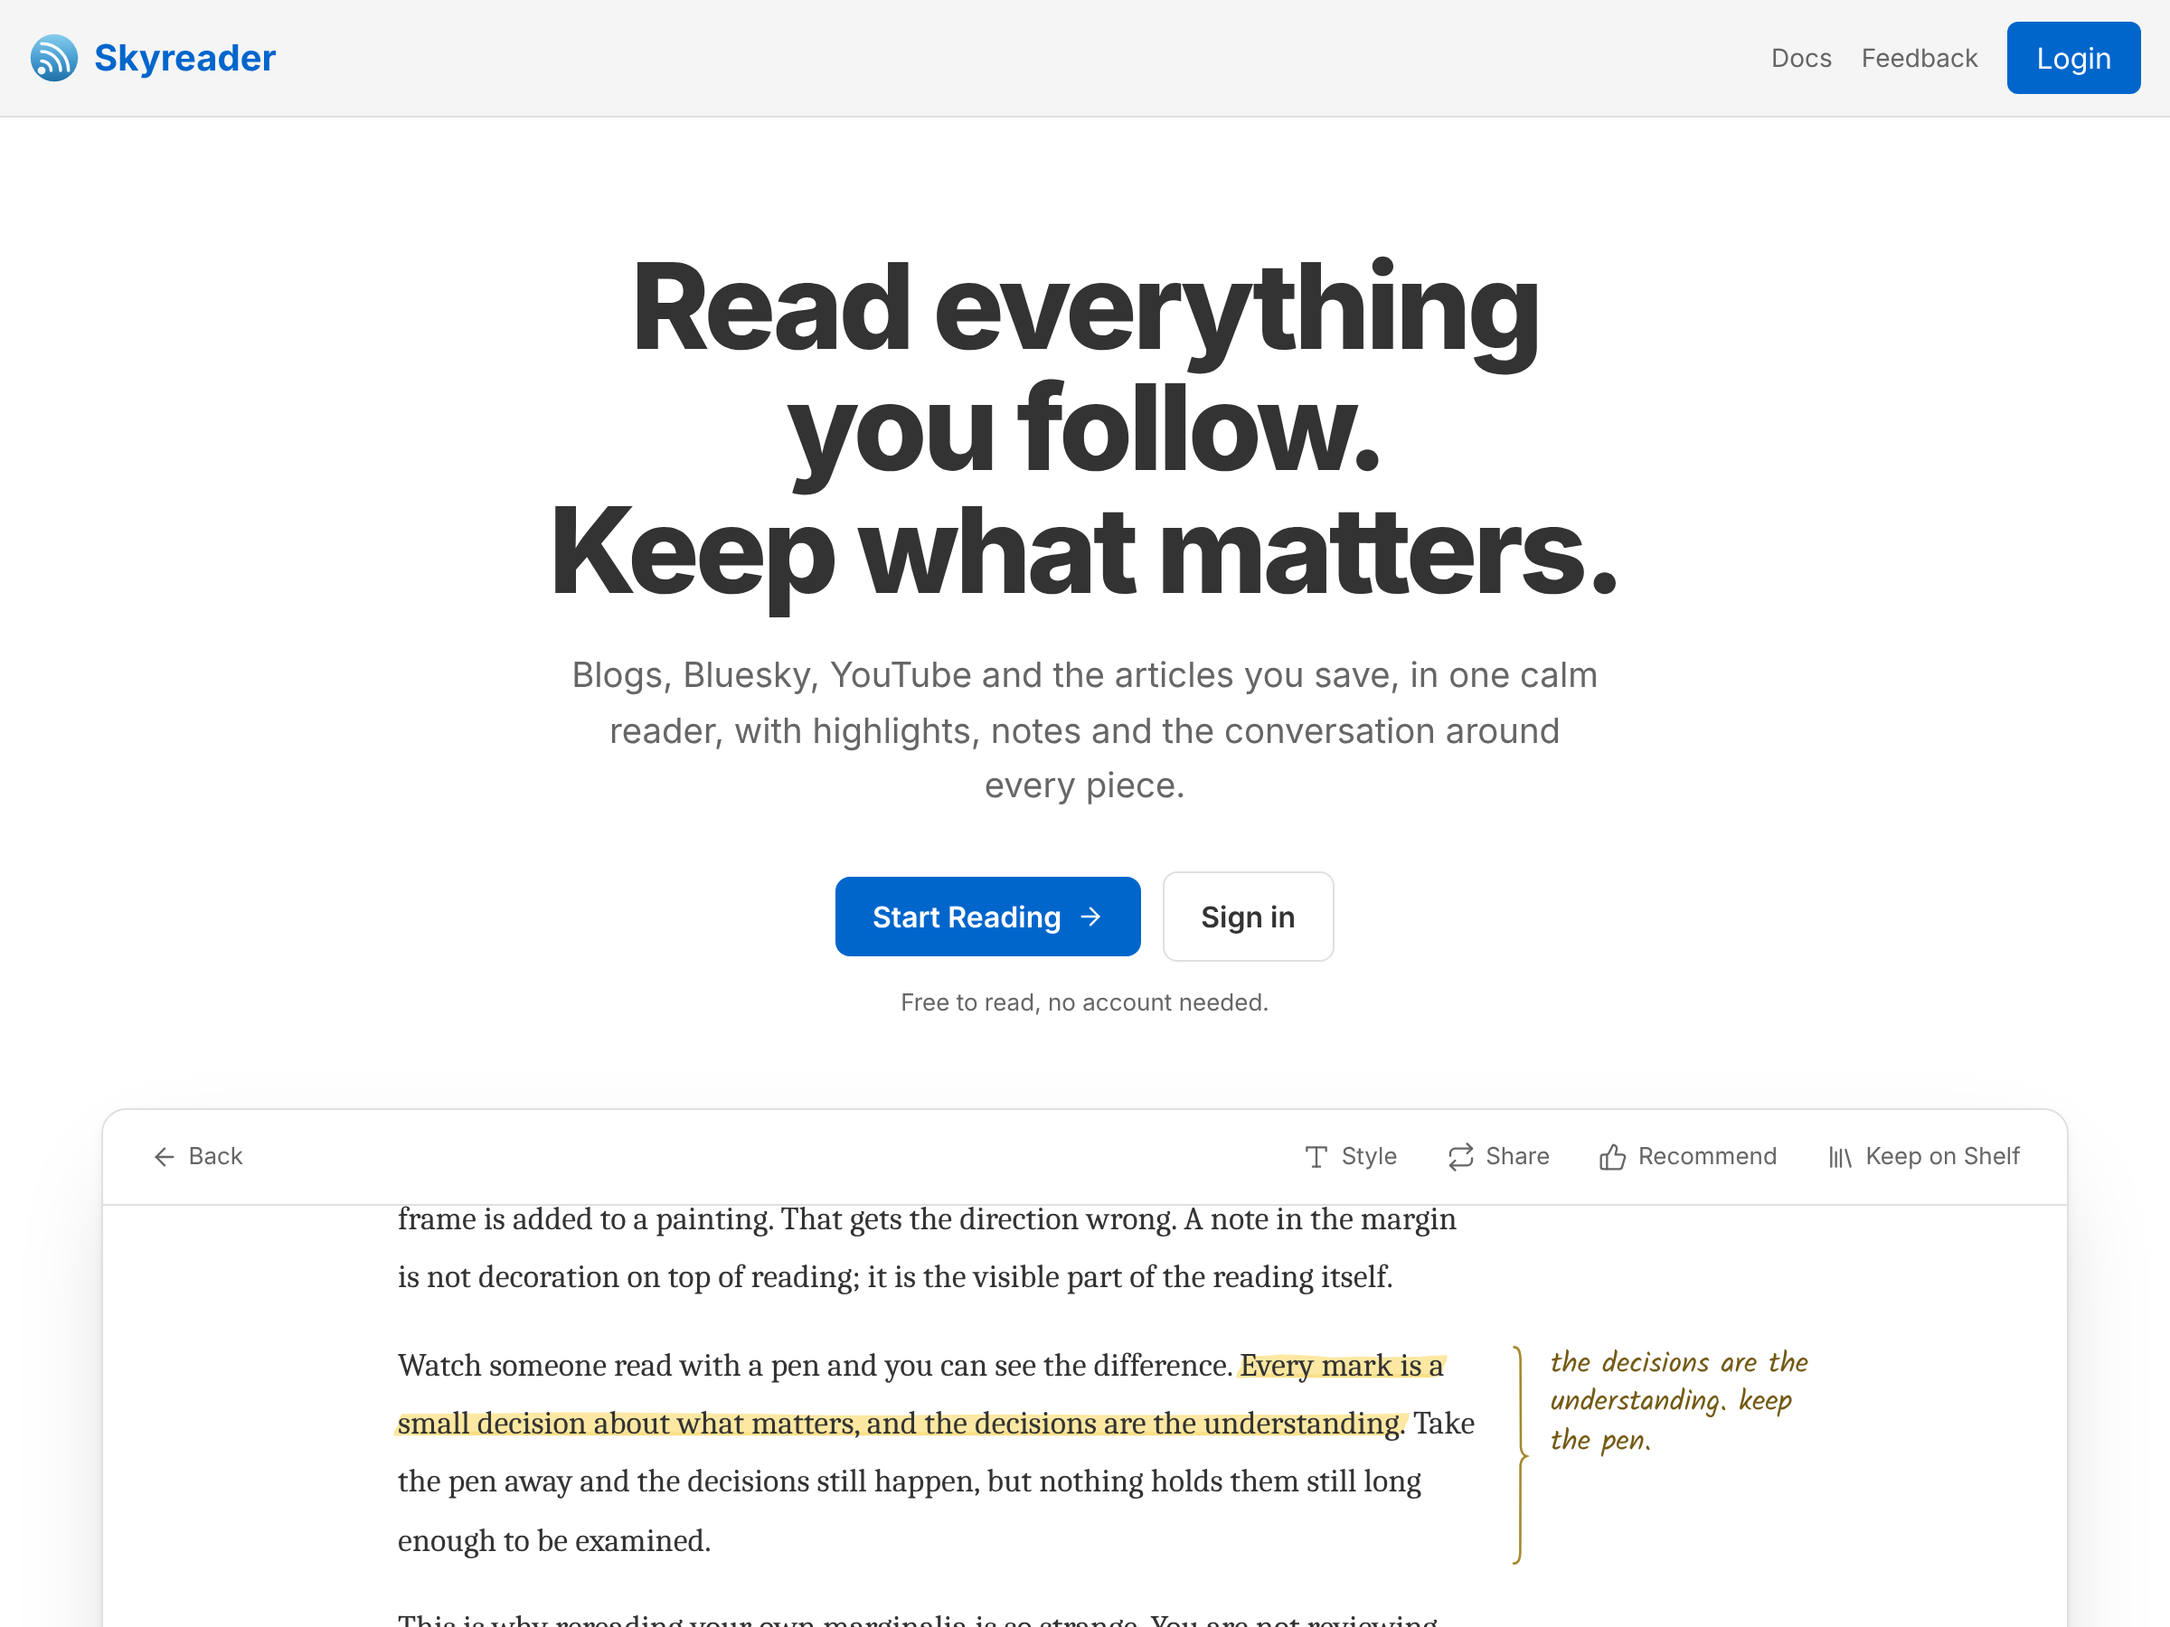
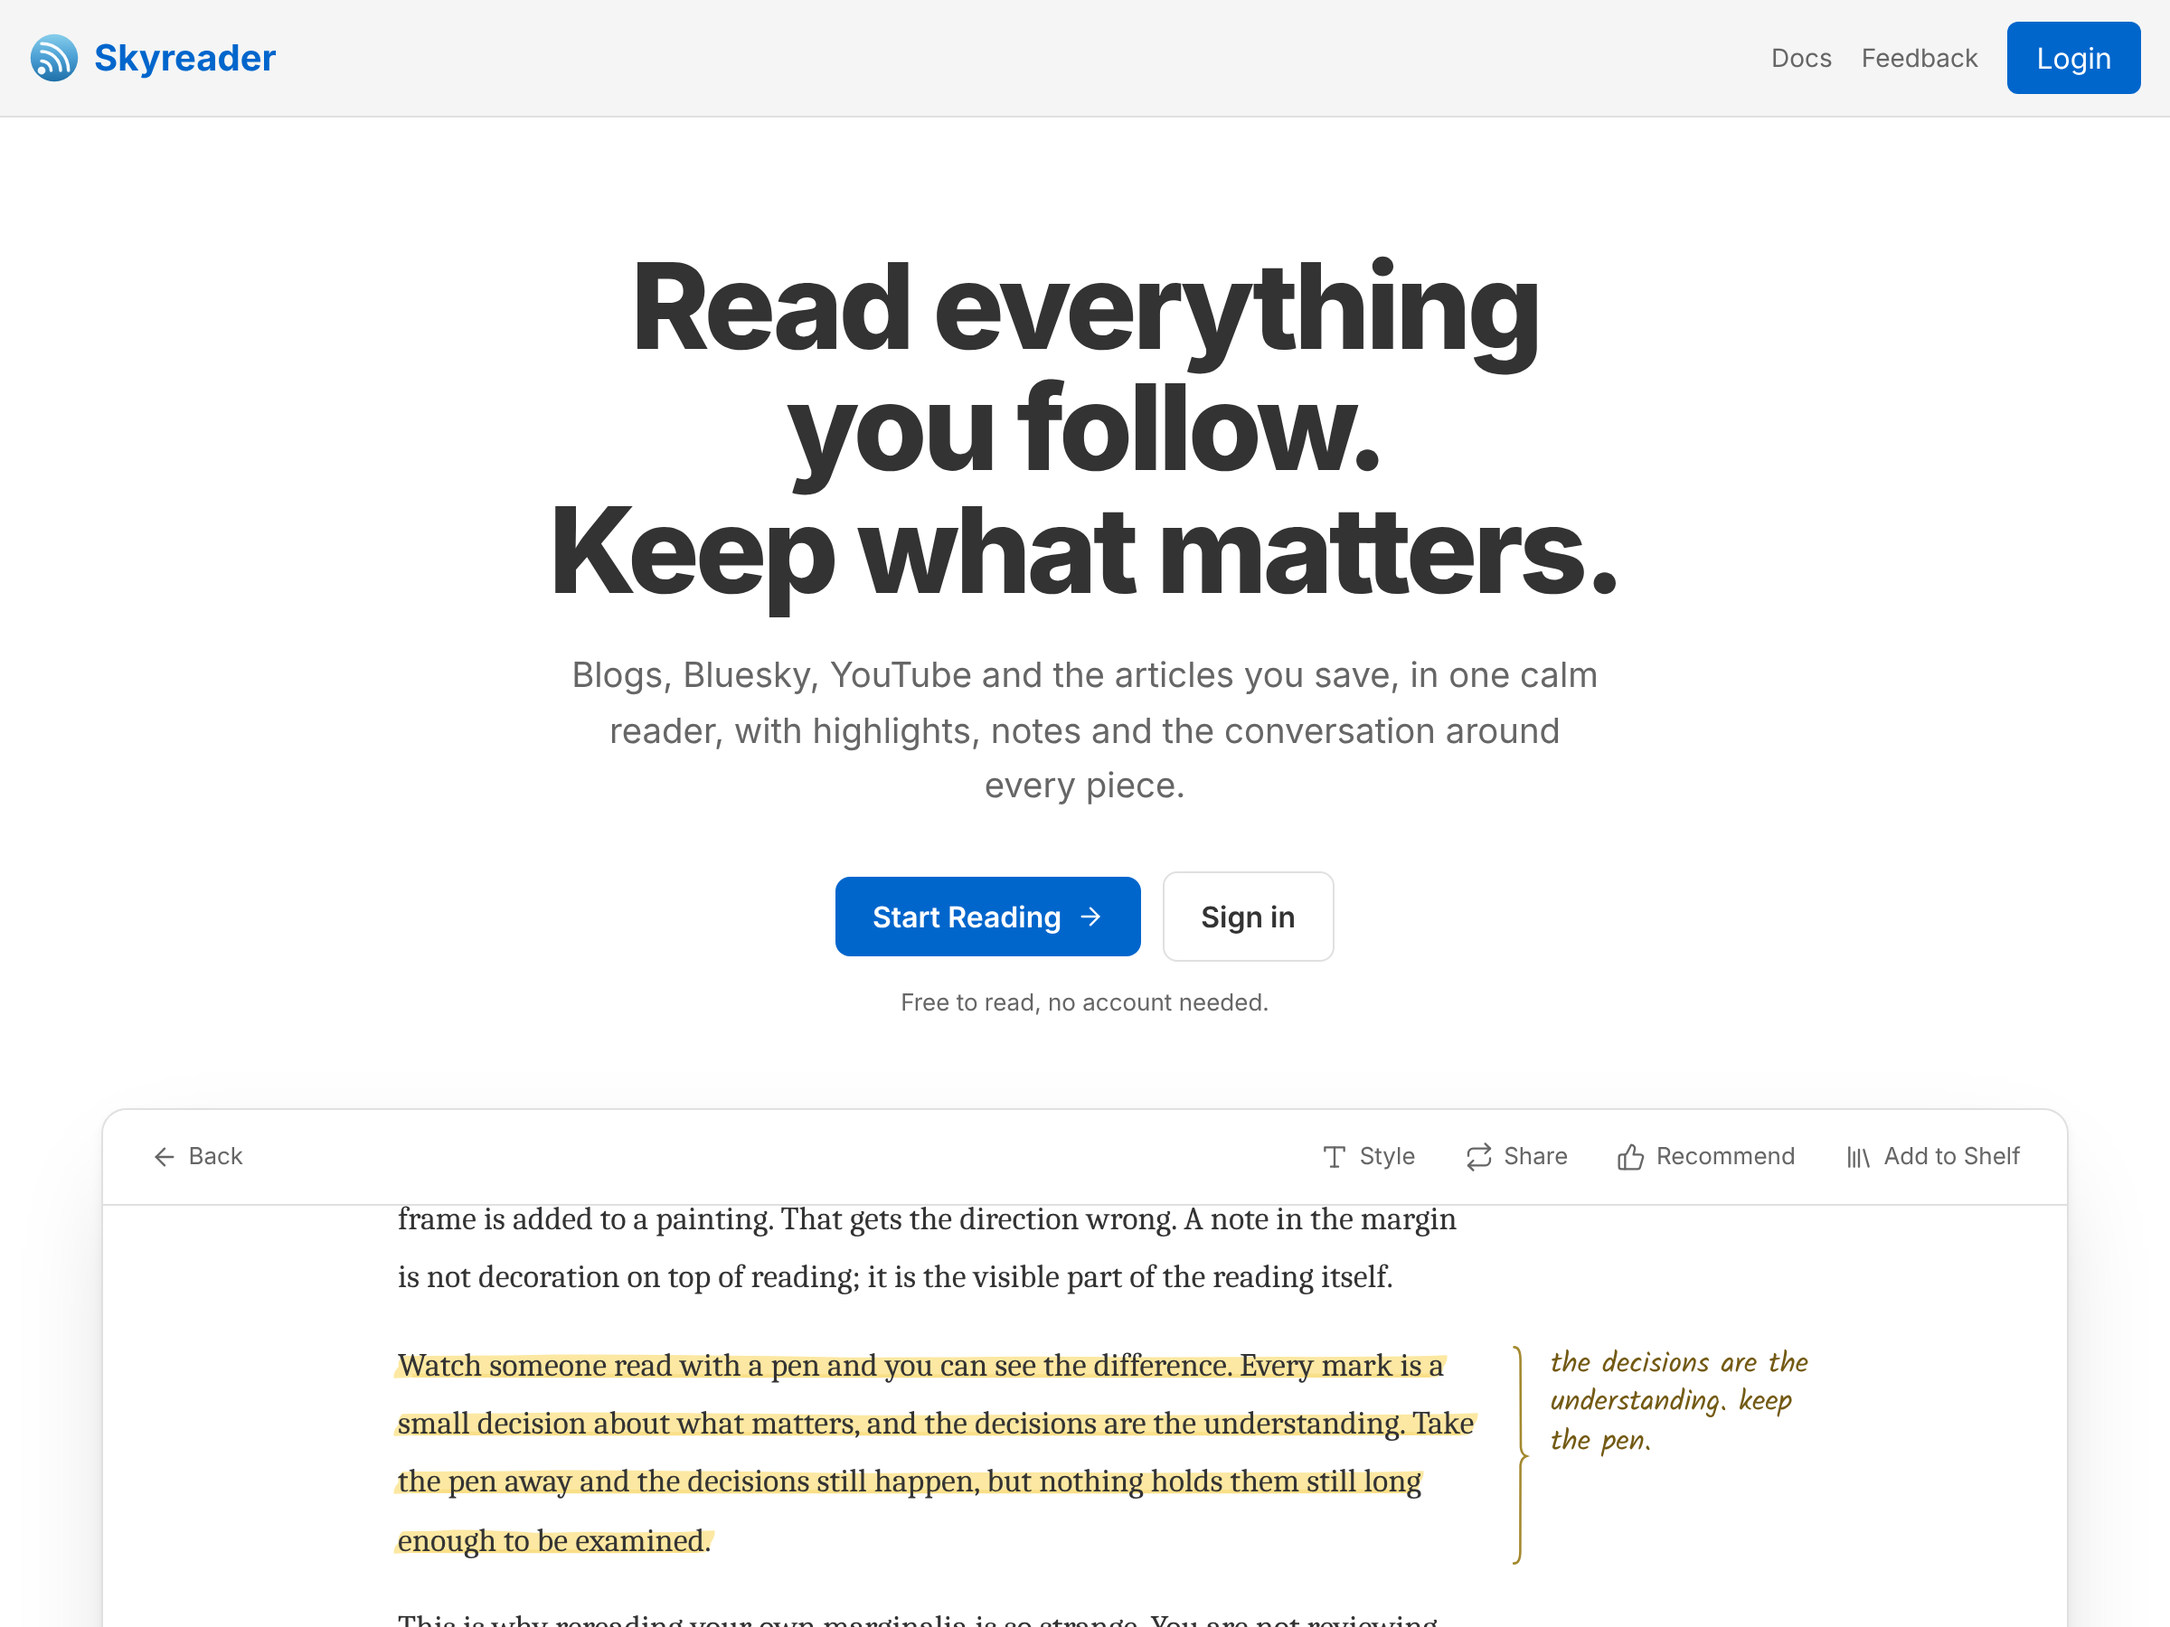
Landing showcase: double-click to highlight, smooth Discuss, longer Shelf
From Tim's second round of notes:

- Mark double-clicks the paragraph and the whole of it takes the marker,
  as double-clicking a paragraph does in the reader. The drag selection
  and the highlight popover go, which also drops the popover's
  document-level listeners from the landing page.
- Discuss scrolls on from where Mark left the article instead of jumping
  to the top first.
- Keep holds on the Shelf longer before the tour loops.

The docs welcome screenshot is regenerated for the new highlight.

Claude-Session: https://claude.ai/code/session_01HGvTAn4zQ5Wmiwv4aG3X5X

diff --git a/frontend/src/lib/components/landing/AppShowcase.svelte b/frontend/src/lib/components/landing/AppShowcase.svelte
@@ -1,6 +1,6 @@
 <script lang="ts">
   // The landing page's shot of the app: the real feed cards (ArticleCardView),
-  // highlight popover (HighlightPopover), sidebar rows (FeedItem) and Discussion
+  // marker ink (marginaliaInk), sidebar rows (FeedItem) and Discussion
   // panel (AtmospherePanel), fed sample data and driven by a short scripted
   // tour. Every one of those is presentational, so the landing chunk still
   // carries none of the app's data layer (see +layout.svelte).
@@ -11,7 +11,6 @@
   import Icon from '$lib/components/Icon.svelte';
   import ArticleCardView from '$lib/components/ArticleCardView.svelte';
   import AtmospherePanel from '$lib/components/feed/AtmospherePanel.svelte';
-  import HighlightPopover from '$lib/components/feed/HighlightPopover.svelte';
   import FeedItem from '$lib/components/sidebar/FeedItem.svelte';
   import { bracketPath, inkVariant, installMarginaliaInk } from '$lib/utils/marginaliaInk';
   import type { Subscription } from '$lib/types';
@@ -33,9 +32,9 @@
   const STEPS = [
     { id: 'follow', label: 'Follow', caption: 'Everything you follow, in one calm list', ms: 6500 },
     { id: 'read', label: 'Read', caption: 'A clean reader for every piece', ms: 6000 },
-    { id: 'mark', label: 'Mark', caption: 'Highlights and notes in the margin', ms: 14000 },
+    { id: 'mark', label: 'Mark', caption: 'Highlights and notes in the margin', ms: 12000 },
     { id: 'discuss', label: 'Discuss', caption: 'The conversation around it', ms: 8000 },
-    { id: 'keep', label: 'Keep', caption: 'Keep what matters', ms: 7500 },
+    { id: 'keep', label: 'Keep', caption: 'Keep what matters', ms: 12000 },
   ] as const;
   type StepId = (typeof STEPS)[number]['id'];
 
@@ -46,17 +45,14 @@
 
   // ── Scene state ─────────────────────────────────────────────
   let readerOpen = $state(false);
-  let selecting = $state(false);
-  let popoverRect = $state<DOMRect | null>(null);
   let marked = $state(false);
   let noteChars = $state(0);
   let kept = $state(false);
   let toast = $state(false);
   // Which page the main column shows: the feed list, or the Shelf the tour ends on.
   let view = $state<'feeds' | 'shelf'>('feeds');
-  // `text` swaps the arrow for an I-beam over the article; `quick` makes it
-  // track a drag word by word instead of gliding.
-  let cursor = $state({ x: 0, y: 0, shown: false, down: false, text: false, quick: false });
+  // `text` swaps the arrow for an I-beam over the article.
+  let cursor = $state({ x: 0, y: 0, shown: false, down: false, text: false });
 
   let frameEl = $state<HTMLElement | null>(null);
   let featuredEl = $state<HTMLElement | null>(null);
@@ -86,10 +82,8 @@
     while (left > 0) {
       if (id !== runId) throw new Stop();
       // Hold still while nobody's watching: off screen, tab hidden, or a
-      // visitor hovering to read the frame. Except while the highlight popover
-      // is up: it listens on the whole document (Escape, outside presses), so
-      // it never outstays its moment.
-      const watched = (visible && !hovering && !document.hidden) || popoverRect !== null;
+      // visitor hovering to read the frame.
+      const watched = visible && !hovering && !document.hidden;
       const slice = watched ? Math.min(left, 100) : 400;
       await new Promise((r) => setTimeout(r, slice));
       if (watched && id === runId) {
@@ -110,7 +104,7 @@
 
   async function moveTo(id: number, p: { x: number; y: number } | null, text = false) {
     if (!p) return;
-    cursor = { ...cursor, ...p, shown: true, text, quick: false };
+    cursor = { ...cursor, ...p, shown: true, text };
     await wait(1100, id);
   }
 
@@ -124,19 +118,16 @@
   function setUp(s: StepId) {
     const at = STEPS.findIndex((x) => x.id === s);
     readerOpen = at >= 2;
-    selecting = false;
-    clearSelection();
-    popoverRect = null;
     marked = at >= 3;
     noteChars = at >= 3 ? noteText.length : 0;
     kept = false;
     toast = false;
     view = 'feeds';
-    // A jump can land mid-drag; don't carry a pressed cursor into the next step.
-    cursor = { ...cursor, down: false, text: false, quick: false };
-    // Keep picks up where Discuss left the page; every other step starts at
-    // the top of the article.
-    if (readerScrollEl && s !== 'keep') readerScrollEl.scrollTop = 0;
+    // A jump can land mid-press; don't carry a pressed cursor into the next step.
+    cursor = { ...cursor, down: false, text: false };
+    // Discuss scrolls on from where Mark left the article, and Keep from where
+    // Discuss did; the steps before them start at the top.
+    if (readerScrollEl && at < 3) readerScrollEl.scrollTop = 0;
   }
 
   /** The state a step ends in: what reduced motion shows for it. */
@@ -177,47 +168,6 @@
     if (below > readerScrollEl.clientHeight * 0.45) scrollReaderTo(block, 72, smooth);
   }
 
-  // ── The drag selection ──────────────────────────────────────
-  // Painted with the CSS Custom Highlight API: a real Range over the passage's
-  // text, drawn the way the reader draws a selection, without touching the
-  // visitor's own selection (the frame is inert, so it couldn't hold one
-  // anyway). Where the API is missing, the whole passage shows as selected
-  // once the drag ends.
-  const SELECTION = 'showcase-selection';
-  const canPaint = typeof CSS !== 'undefined' && 'highlights' in CSS;
-
-  function paintSelection(range: Range | null) {
-    if (!canPaint) return;
-    if (range) CSS.highlights.set(SELECTION, new Highlight(range));
-    else CSS.highlights.delete(SELECTION);
-  }
-  function clearSelection() {
-    paintSelection(null);
-  }
-
-  /** Drag across the passage a word at a time, the cursor on the selection's end. */
-  async function dragSelect(id: number) {
-    const text = passageEl?.firstChild;
-    if (!(text instanceof Text) || !frameEl) return;
-    const f = frameEl.getBoundingClientRect();
-    const range = document.createRange();
-    range.setStart(text, 0);
-    range.setEnd(text, 0);
-    const ends = [...text.data.matchAll(/\S+/g)].map((m) => m.index + m[0].length);
-    cursor = { ...cursor, down: true, quick: true };
-    selecting = true;
-    for (const end of ends) {
-      range.setEnd(text, end);
-      paintSelection(range);
-      const rects = range.getClientRects();
-      const last = rects[rects.length - 1];
-      if (last)
-        cursor = { ...cursor, x: last.right - f.left, y: last.top - f.top + last.height / 2 };
-      await wait(70, id);
-    }
-    cursor = { ...cursor, down: false };
-  }
-
   async function playStep(s: StepId, id: number) {
     step = s;
     elapsed = 0;
@@ -241,39 +191,18 @@
       await press(id);
       readerOpen = true;
     } else if (s === 'mark') {
+      // Double-click a paragraph to highlight all of it, as in the reader.
       scrollToPassage(true);
       await wait(1200, id);
-      const r = passageEl?.getBoundingClientRect();
-      if (!r || !passageEl) return;
-      // To the first word of the passage, then drag through it.
-      const first = document.createRange();
-      first.setStart(passageEl.firstChild!, 0);
-      first.setEnd(passageEl.firstChild!, 1);
-      const fr = first.getBoundingClientRect();
-      await moveTo(
-        id,
-        pointAt(
-          passageEl,
-          fr.left - r.left - r.width / 2,
-          fr.top - r.top - r.height / 2 + fr.height / 2
-        ),
-        true
-      );
-      await wait(300, id);
-      await dragSelect(id);
+      await moveTo(id, pointAt(passageEl, 0, -8), true);
       await wait(500, id);
-      popoverRect = passageEl?.getBoundingClientRect() ?? null;
-      await wait(700, id);
-      await tick();
-      if (id !== runId) throw new Stop();
-      await moveTo(id, pointAt(document.querySelector('.showcase-popover .popover-btn.highlight')));
       await press(id);
-      popoverRect = null;
-      selecting = false;
-      clearSelection();
+      await wait(90, id);
+      await press(id);
       marked = true;
+      await wait(900, id);
       cursor = { ...cursor, shown: false };
-      await wait(1000, id);
+      await wait(600, id);
       for (let i = 1; i <= noteText.length; i++) {
         noteChars = i;
         await wait(55, id);
@@ -342,7 +271,6 @@
     return () => {
       io.disconnect();
       runId++;
-      clearSelection();
     };
   });
 
@@ -488,15 +416,11 @@
             <div class="r-body marginalia-ink">
               <p>{article.before}</p>
               <div class="passage-block" bind:clientHeight={passageBlockHeight}>
-                <p>
-                  {article.passageLead}{#if marked}<mark
+                <p bind:this={passageEl}>
+                  {#if marked}<mark
                       class="highlight ink-drawing"
                       data-ink={String(inkVariant(inkId))}>{article.passage}</mark
-                    >{:else}<span
-                      class="sel"
-                      class:fallback={selecting && !canPaint}
-                      bind:this={passageEl}>{article.passage}</span
-                    >{/if}{article.passageTail}
+                    >{:else}{article.passage}{/if}
                 </p>
                 {#if marked}
                   <div class="note">
@@ -532,23 +456,10 @@
         {/if}
       </div>
 
-      {#if popoverRect}
-        <div class="showcase-popover">
-          <HighlightPopover
-            mode="create"
-            anchorRect={popoverRect}
-            getAnchorRect={() => passageEl?.getBoundingClientRect() ?? popoverRect!}
-            onHighlight={() => {}}
-            onClose={() => (popoverRect = null)}
-          />
-        </div>
-      {/if}
-
       <span
         class="cursor"
         class:shown={cursor.shown}
         class:down={cursor.down}
-        class:quick={cursor.quick}
         class:text={cursor.text}
         style:transform="translate({cursor.x}px, {cursor.y}px)"
       >
@@ -994,14 +905,6 @@
   .passage-block {
     position: relative;
   }
-  /* The drag selection: the reader's own selection colour (app.css
-     `.marginalia-ink ::selection`), painted over a real Range. */
-  :global(::highlight(showcase-selection)) {
-    background-color: color-mix(in srgb, #f5c518 30%, transparent);
-  }
-  .sel.fallback {
-    background-color: color-mix(in srgb, #f5c518 30%, transparent);
-  }
   .note {
     position: absolute;
     top: 4px;
@@ -1057,17 +960,11 @@
     position: absolute;
     top: 0;
     left: 0;
-    /* Over the highlight popover (z-index 200), which it reaches for. */
-    z-index: 210;
+    z-index: 20;
     pointer-events: none;
     opacity: 0;
     transition:
       transform 1s cubic-bezier(0.45, 0, 0.2, 1),
-      opacity 0.3s;
-  }
-  .cursor.quick {
-    transition:
-      transform 70ms linear,
       opacity 0.3s;
   }
   /* The I-beam's middle sits on the point, as a text cursor's does. */

diff --git a/frontend/src/lib/components/landing/showcaseData.ts b/frontend/src/lib/components/landing/showcaseData.ts
@@ -112,7 +112,7 @@ export const timelineCards: ArticleCardViewProps[] = [
   }),
 ];
 
-/** The article as it opens in the reader. `passage` is the sentence the tour marks. */
+/** The article as it opens in the reader. `passage` is the paragraph the tour marks. */
 export const article = {
   title: 'Annotation is thinking',
   source: 'The Commonplace',
@@ -121,11 +121,8 @@ export const article = {
   readTime: '4 min read',
   before:
     'Annotation is usually described as something a reader adds to a text, the way a frame is added to a painting. That gets the direction wrong. A note in the margin is not decoration on top of reading; it is the visible part of the reading itself.',
-  passageLead: 'Watch someone read with a pen and you can see the difference. ',
   passage:
-    'Every mark is a small decision about what matters, and the decisions are the understanding.',
-  passageTail:
-    ' Take the pen away and the decisions still happen, but nothing holds them still long enough to be examined.',
+    'Watch someone read with a pen and you can see the difference. Every mark is a small decision about what matters, and the decisions are the understanding. Take the pen away and the decisions still happen, but nothing holds them still long enough to be examined.',
   after:
     'This is why rereading your own marginalia is so strange. You are not reviewing the book; you are reviewing a previous self in conversation with it.',
   note: 'the decisions are the understanding. keep the pen.',
